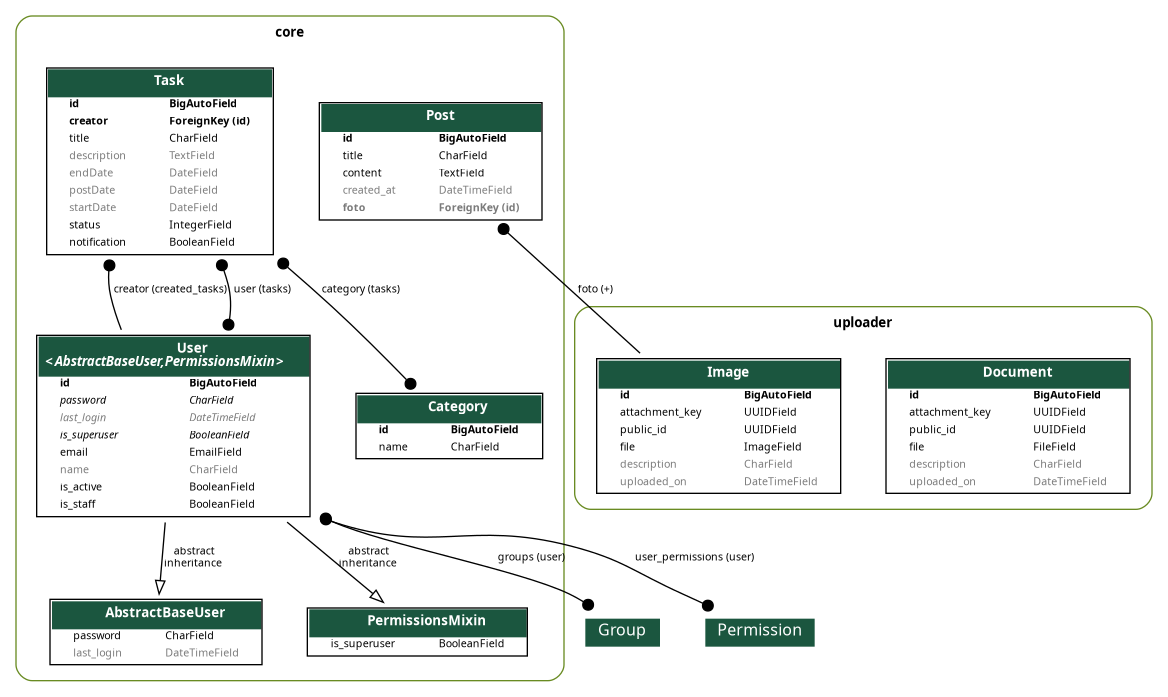
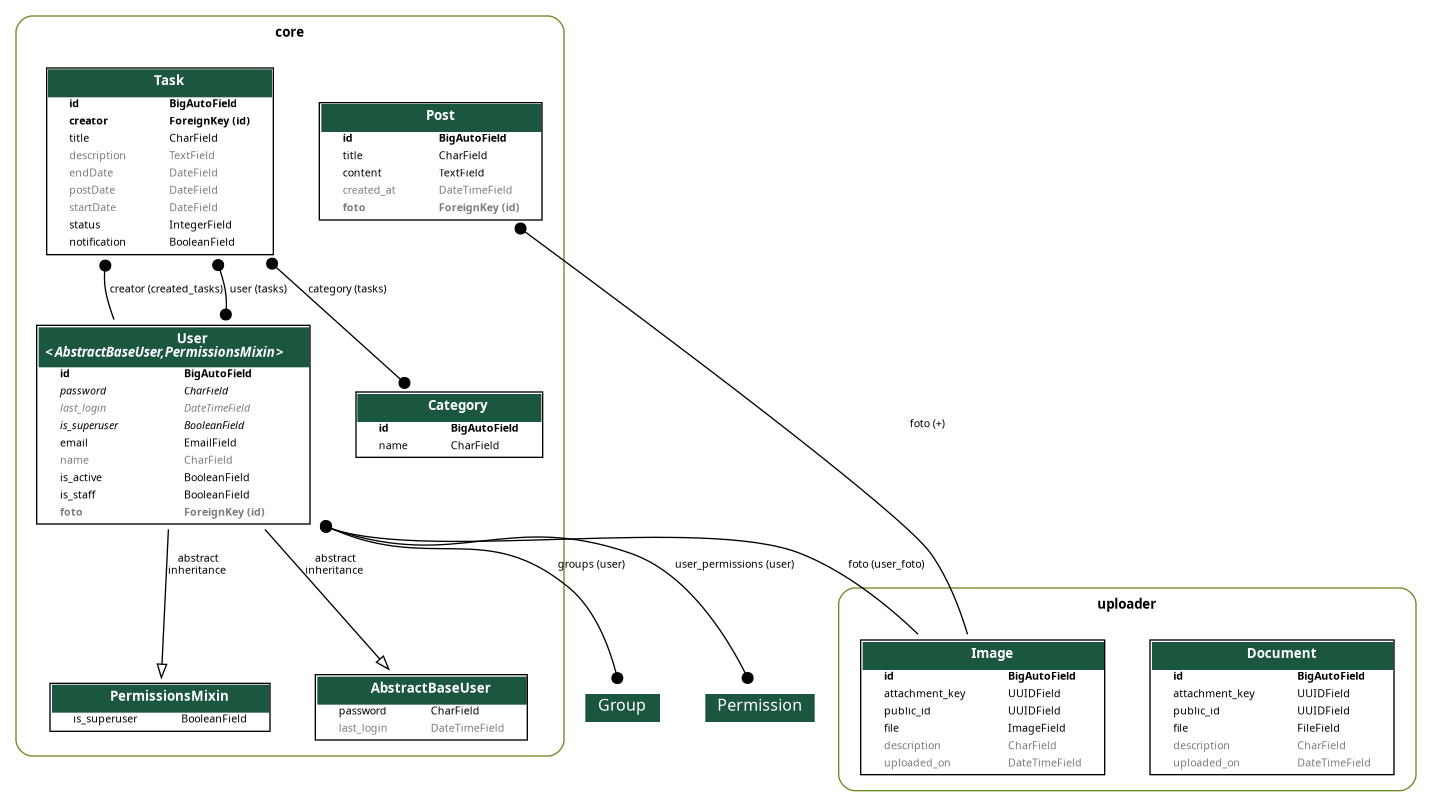
CHORE: Processo de imagem para user, seguir tutorial

Changed region(s): [[0.0, 0.0, 0.9863, 0.9943], [0.8014, 0.7532, 1.0, 0.9943], [0.7089, 0.4519, 0.7705, 0.4821]]

diff --git a/core/serializers/user.py b/core/serializers/user.py
@@ -1,13 +1,27 @@
 from rest_framework import serializers
-from rest_framework.serializers import ModelSerializer
+from rest_framework.serializers import ModelSerializer, SlugRelatedField
 
 from core.models import User
+from uploader.models import Image
+from uploader.serializers import ImageSerializer
 
 
 class UserSerializer(ModelSerializer):
+
     class Meta:
         model = User
-        fields = ['id', 'email', 'name', 'is_active', 'is_staff', 'is_superuser', 'last_login', 'groups']
+        fields = [
+            'id',
+            'email',
+            'name',
+            'is_active',
+            'is_staff',
+            'is_superuser',
+            'last_login',
+            'groups',
+            'foto',
+            'foto_attachment_key',
+        ]
         depth = 1
 
 
@@ -16,7 +30,7 @@ class UserRegistrationSerializer(ModelSerializer):
 
     class Meta:
         model = User
-        fields = ['id', 'email', 'name', 'password']
+        fields = ['id', 'email', 'name', 'password', 'foto']
 
     def create(self, validated_data):
         return User.objects.create_user(**validated_data)

diff --git a/core/models/user.py b/core/models/user.py
@@ -10,6 +10,8 @@ from django.contrib.auth.models import (
 from django.db import models
 from django.utils.translation import gettext_lazy as _
 
+from uploader.models import Image
+
 
 class UserManager(BaseUserManager):
     """Manager for users."""
@@ -49,6 +51,15 @@ class User(AbstractBaseUser, PermissionsMixin):
         default=False,
         verbose_name=_('Usuário é da equipe'),
         help_text=_('Indica que este usuário pode acessar o Admin.'),
+    )
+
+    foto = models.ForeignKey(
+        Image,
+        related_name='user_foto',
+        on_delete=models.SET_NULL,
+        null=True,
+        blank=True,
+        default=None,
     )
 
     objects = UserManager()

diff --git a/core/migrations/0011_alter_user_foto.py b/core/migrations/0011_alter_user_foto.py
@@ -1,0 +1,20 @@
+# Generated by Django 5.2.12 on 2026-05-20 14:05
+
+import django.db.models.deletion
+from django.db import migrations, models
+
+
+class Migration(migrations.Migration):
+
+    dependencies = [
+        ('core', '0010_user_foto'),
+        ('uploader', '0001_initial'),
+    ]
+
+    operations = [
+        migrations.AlterField(
+            model_name='user',
+            name='foto',
+            field=models.ForeignKey(blank=True, default=None, null=True, on_delete=django.db.models.deletion.SET_NULL, related_name='user_foto', to='uploader.image'),
+        ),
+    ]

diff --git a/core/migrations/0010_user_foto.py b/core/migrations/0010_user_foto.py
@@ -1,0 +1,20 @@
+# Generated by Django 5.2.12 on 2026-05-20 13:28
+
+import django.db.models.deletion
+from django.db import migrations, models
+
+
+class Migration(migrations.Migration):
+
+    dependencies = [
+        ('core', '0009_task_creator'),
+        ('uploader', '0001_initial'),
+    ]
+
+    operations = [
+        migrations.AddField(
+            model_name='user',
+            name='foto',
+            field=models.ForeignKey(blank=True, default=None, null=True, on_delete=django.db.models.deletion.SET_NULL, related_name='+', to='uploader.image'),
+        ),
+    ]
